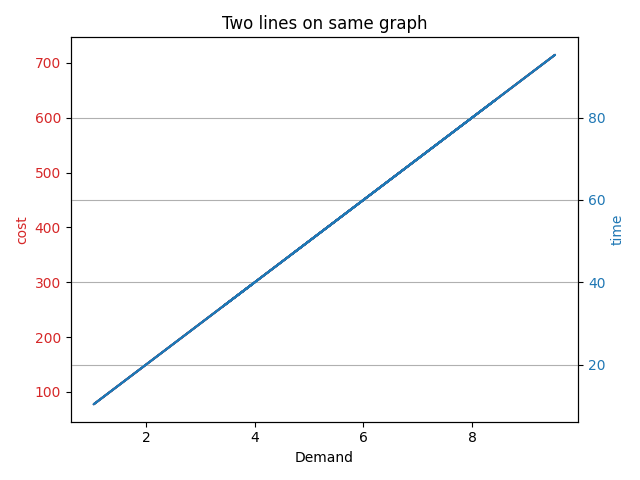
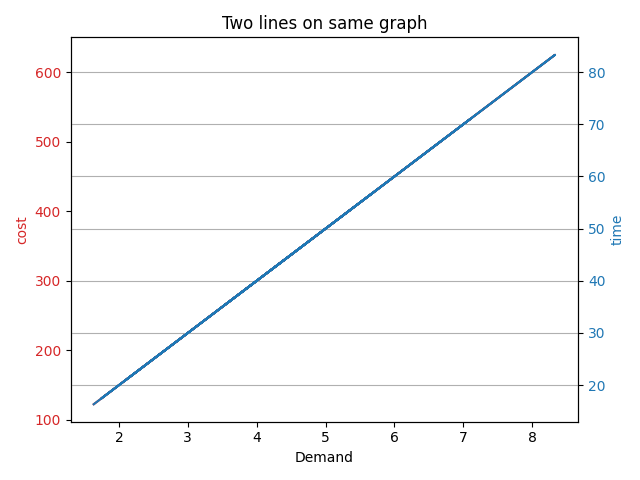
JsonFile Input style addition

diff --git a/Main.py b/Main.py
@@ -6,32 +6,42 @@ import ThreeDP.ThreeDP as printerModule
 import Utilities.Plotting as plotty
 
 FILE_NAME = "Variables_Definitions.txt"
+JSONFILE_NAME = "Variables_Definitions.json"
+
 STH_WENT_WRONG = -1
 
 def main():
-    fileReaderTool = utils.FileLoader(FILE_NAME)
-    data_that_Tota_has_entered = fileReaderTool.fetchDataFromFile()
+#    fileReaderTool = utils.FileLoader(FILE_NAME)
+    jsonReaderTool = utils.FileLoader(JSONFILE_NAME)
 
-    threeDPrinter = printerModule.ThreeDPrinterObject(data_that_Tota_has_entered)
+#    data_that_Tota_has_entered = fileReaderTool.fetchDataFromFile()
+    data_that_Tota_has_entered_in_Json = jsonReaderTool.fetchDataFromJsonFile()
 
-    x_axis_values_from_txtFile = plotty.createListOfValuesToLoopOn(data_that_Tota_has_entered["type_of_data_to_be_generated"], int(
-        data_that_Tota_has_entered["beginningValueFor_X_axis"]), int(data_that_Tota_has_entered["endingValueFor_X_axis"]), int(data_that_Tota_has_entered["step_in_range"]))
+    toBePrintedParts = []
+    specificationsForPart = data_that_Tota_has_entered_in_Json['3DPrinted_Products']
+    for part in specificationsForPart:
+         toBePrintedParts.append(printerModule.ThreeDPrinterObject(part))
+            
+#    threeDPrinter = printerModule.ThreeDPrinterObject(data_that_Tota_has_entered)
 
-    xAxisVariable = data_that_Tota_has_entered["x_axis_variable"]
+    x_axis_values_from_txtFile = plotty.createListOfValuesToLoopOn(data_that_Tota_has_entered_in_Json["type_of_data_to_be_generated"], int(
+        data_that_Tota_has_entered_in_Json["beginningValueFor_X_axis"]), int(data_that_Tota_has_entered_in_Json["endingValueFor_X_axis"]), int(data_that_Tota_has_entered_in_Json["step_in_range"]))
+
+    xAxisVariable = data_that_Tota_has_entered_in_Json["x_axis_variable"]
     plottingData = [[],[], []]
 
     for dataValue in x_axis_values_from_txtFile:
-        if (threeDPrinter.useAndCheckCorrectnessOfTheVariableOnXAxis(xAxisVariable, dataValue) == STH_WENT_WRONG ):
+        if (toBePrintedParts[0].useAndCheckCorrectnessOfTheVariableOnXAxis(xAxisVariable, dataValue) == STH_WENT_WRONG ):
             print("variable or value passed in the txt file has sth wrong.")
             break
 
-        cost = threeDPrinter.updateTotalCost()
-        time = threeDPrinter.updateTotalTime()
+        cost = toBePrintedParts[0].updateTotalCost()
+        time = toBePrintedParts[0].updateTotalTime()
         plottingData[0].append(dataValue)
         plottingData[1].append(cost)
         plottingData[2].append(time)
 
-    drawer = plotty.Drawer(data_that_Tota_has_entered["plotTitle"])
+    drawer = plotty.Drawer(data_that_Tota_has_entered_in_Json["plotTitle"])
     drawer.setPlot_X_and_Y_Names(str(xAxisVariable), "cost", "time")
     drawer.draw(plottingData)
 

diff --git a/Utilities/FileLoader.py b/Utilities/FileLoader.py
@@ -2,7 +2,6 @@ import json
 
 class FileLoader:
 
-    _data = {}
     _fileName = ""
     
     def save(self, data):
@@ -16,16 +15,25 @@ class FileLoader:
             json.dump(_cache, cache, indent=4)
 
 
-    def fetchDataFromFile(self):
+    def fetchDataFromJsonFile(self):
 
+        with open(self._fileName, "r") as cache:
+             data = json.load(cache)               
+        return data
+    
+    def fetchDataFromFile(self):
+        data = {}
         with open(self._fileName) as cache:
             for line in cache.readlines():
                 if(not line.strip()):
+                    continue
+                keyValueList = line.rstrip("\n").split("=")
+                if(len(keyValueList) != 2):
+                    print ("key value in txt file not correct, values: " + keyValueList[0])
                     break
-                key, value = line.rstrip("\n").split("=")
-                self._data[key] = str(value).replace('"', '').strip() 
+                data[keyValueList[0]] = str(keyValueList[1]).replace('"', '').strip() 
                 
-        return self._data
+        return data
             
     def __init__(self, fileName) -> None:
         self._fileName = fileName
